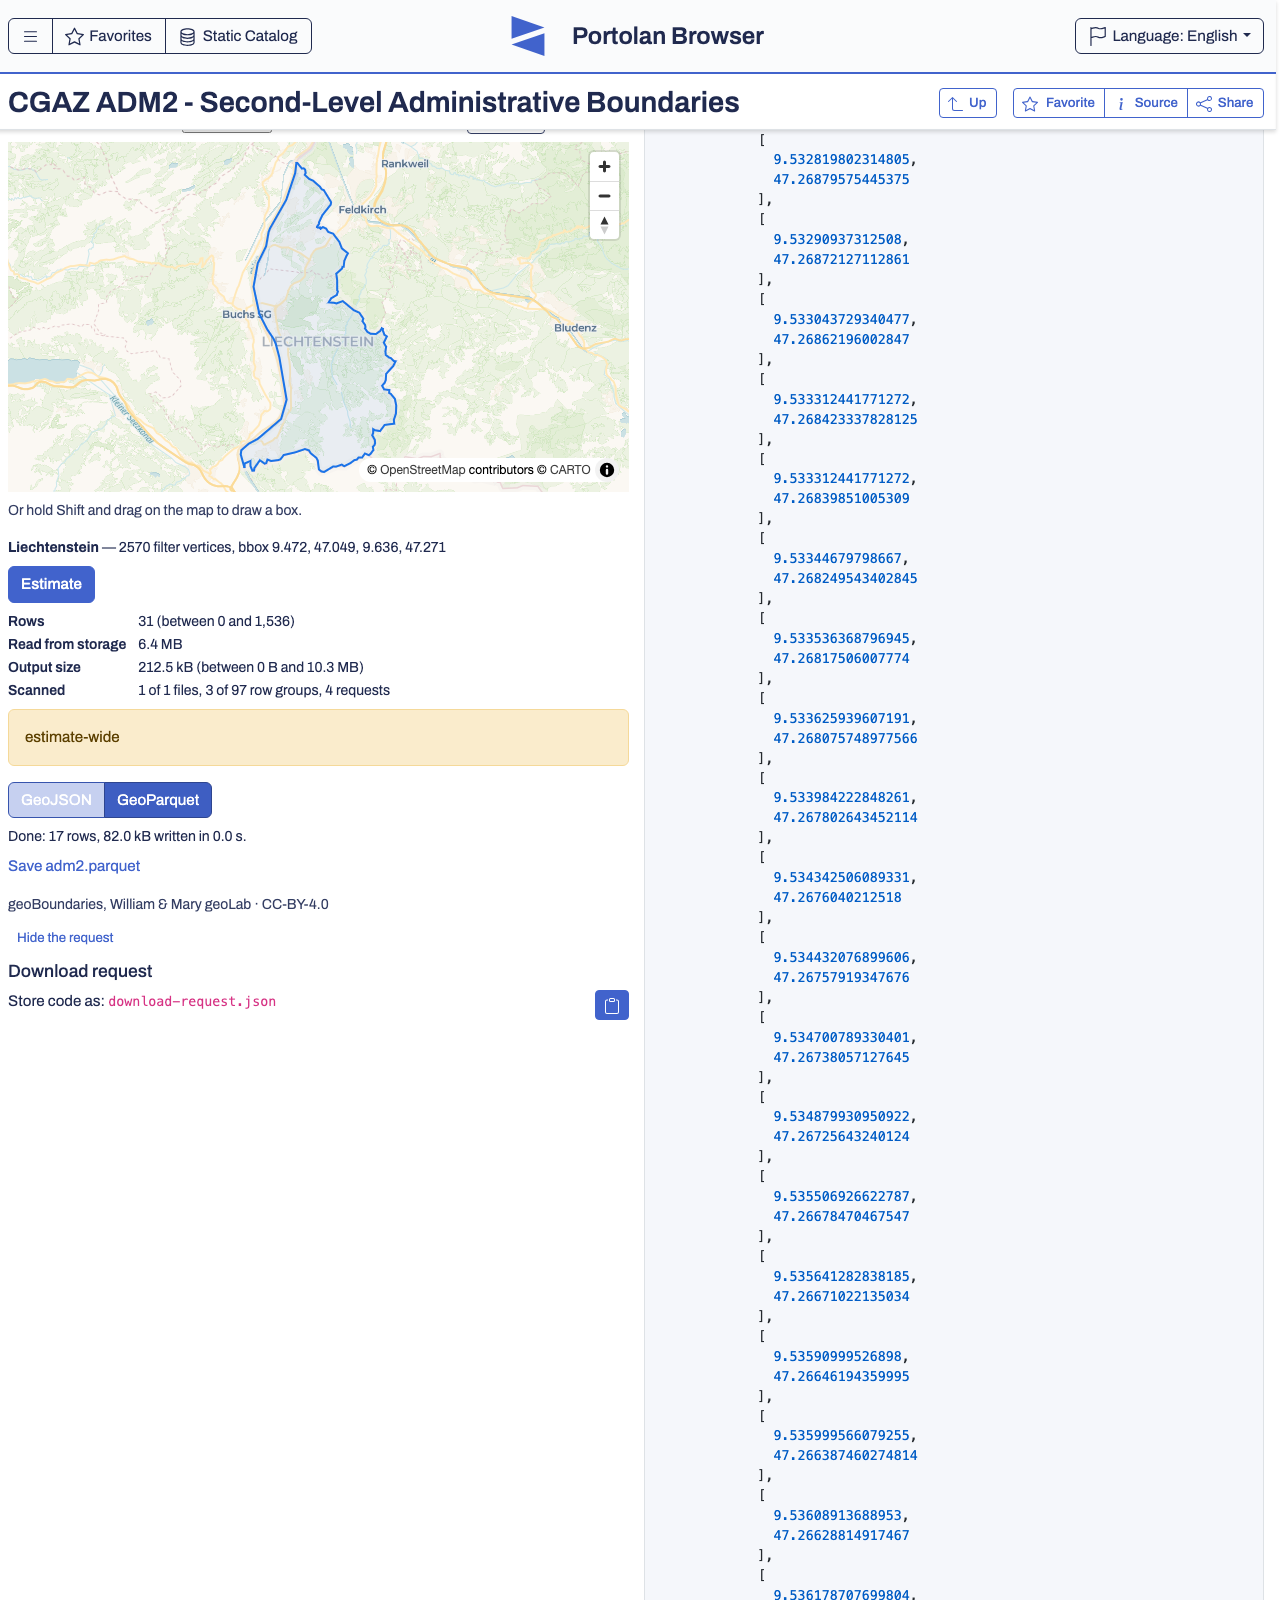
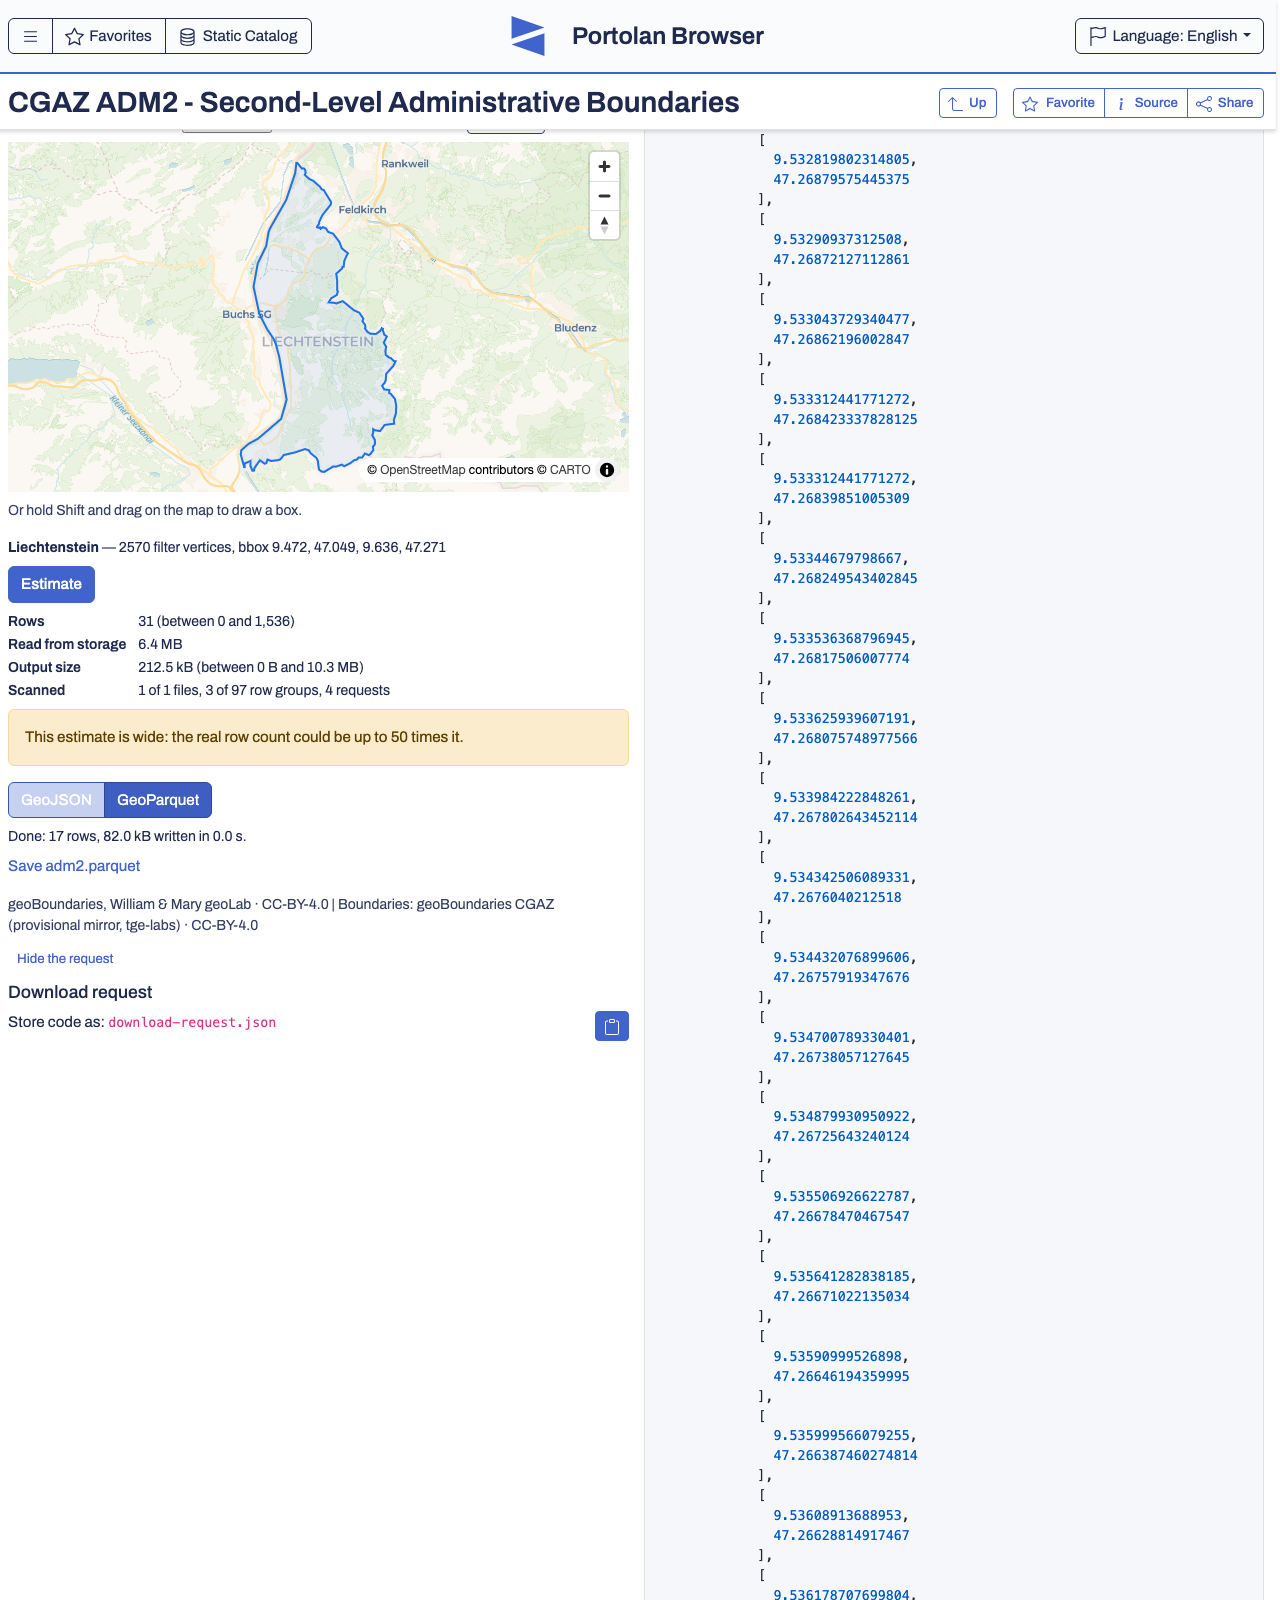
fix(download): keep the estimate when the area finishes loading
Selecting a place returns a display-simplified outline immediately and
upgrades the filter geometry from the full-resolution boundary file in
the background. That upgrade went through the same path as picking a new
area, which clears the estimate and the download buttons: press Estimate
while the boundary file is still loading and the result vanished a
moment later, for no reason the user could see.

An upgrade now swaps the geometry and the outline and leaves everything
else alone. The numbers stay valid -- row-group selection is driven by
the bbox, which the upgrade does not change -- and the download rebuilds
its request from the current area, so it still filters on the
full-resolution geometry.

Also copy the place index's attribution into reactive state when it
loads. Read straight off the geocoder it was a credit that appeared only
if something else happened to re-render, and the index is CC-BY.

diff --git a/src/widgets/AreaDownload.vue b/src/widgets/AreaDownload.vue
@@ -212,6 +212,7 @@ export default defineComponent({
       showCode: false,
       request: null,
       geocoder: null,
+      indexAttribution: [],
       areaLayer: null,
       bboxDraw: null,
       handle: null,
@@ -247,8 +248,7 @@ export default defineComponent({
     attribution() {
       const entries = this.descriptor?.attribution || [];
       const parts = entries.map(entry => [entry.text, entry.license].filter(Boolean).join(' · '));
-      const index = this.geocoder?.attribution || [];
-      for (const entry of index) {
+      for (const entry of this.indexAttribution) {
         parts.push([entry.text, entry.license].filter(Boolean).join(' · '));
       }
       return parts.filter(Boolean).join(' | ');
@@ -337,7 +337,17 @@ export default defineComponent({
         // of the true boundary -- so it would over-select at the edges.
         geocoder.on('area:upgraded', ({ area }) => {
           if (this.area && area.id === this.area.id) {
-            this.setArea(area, { refit: false });
+            this.upgradeArea(area);
+          }
+        });
+        // The index carries its own licence (the geoBoundaries index is
+        // CC-BY), and it only knows it once loaded. Copy it into reactive
+        // state: reading `geocoder.attribution` straight from the markRaw'd
+        // object would leave the credit off the page until some unrelated
+        // render happened to pick it up.
+        geocoder.on('state', ({ state }) => {
+          if (state === 'ready') {
+            this.indexAttribution = [...geocoder.attribution];
           }
         });
         geocoder.on('warning', warning => {
@@ -414,17 +424,30 @@ export default defineComponent({
         this.areaError = this.formatError(error);
       }
     },
-    setArea(area, options = {}) {
-      this.area = markRaw(area);
+    // A new area: everything computed from the old one is now wrong.
+    setArea(area) {
+      this.applyArea(area);
       this.resetDownload();
       this.estimateResult = null;
-      this.areaLayer?.setArea(area);
-      if (options.refit !== false) {
-        this.areaLayer?.fit({ padding: 20, maxZoom: this.maxZoom });
-        if (this.bboxDraw && area.provenance?.source !== 'draw') {
-          this.bboxDraw.setExtent(null);
-        }
+      this.areaLayer?.fit({ padding: 20, maxZoom: this.maxZoom });
+      if (this.bboxDraw && area.provenance?.source !== 'draw') {
+        this.bboxDraw.setExtent(null);
       }
+    },
+    // The same area at full resolution, arriving from the geocoder's
+    // background upgrade. It must not clear the estimate: the upgrade lands
+    // whenever the boundary file finishes loading, which can be after the
+    // user has already pressed Estimate, and taking their result away
+    // because something finished in the background is indefensible. The
+    // numbers stay valid: row-group selection is driven by the bbox, which
+    // the upgrade does not change, and the download rebuilds its request
+    // from `this.area`, so it filters on the full-resolution geometry.
+    upgradeArea(area) {
+      this.applyArea(area);
+    },
+    applyArea(area) {
+      this.area = markRaw(area);
+      this.areaLayer?.setArea(area);
     },
     clearArea() {
       this.area = null;
